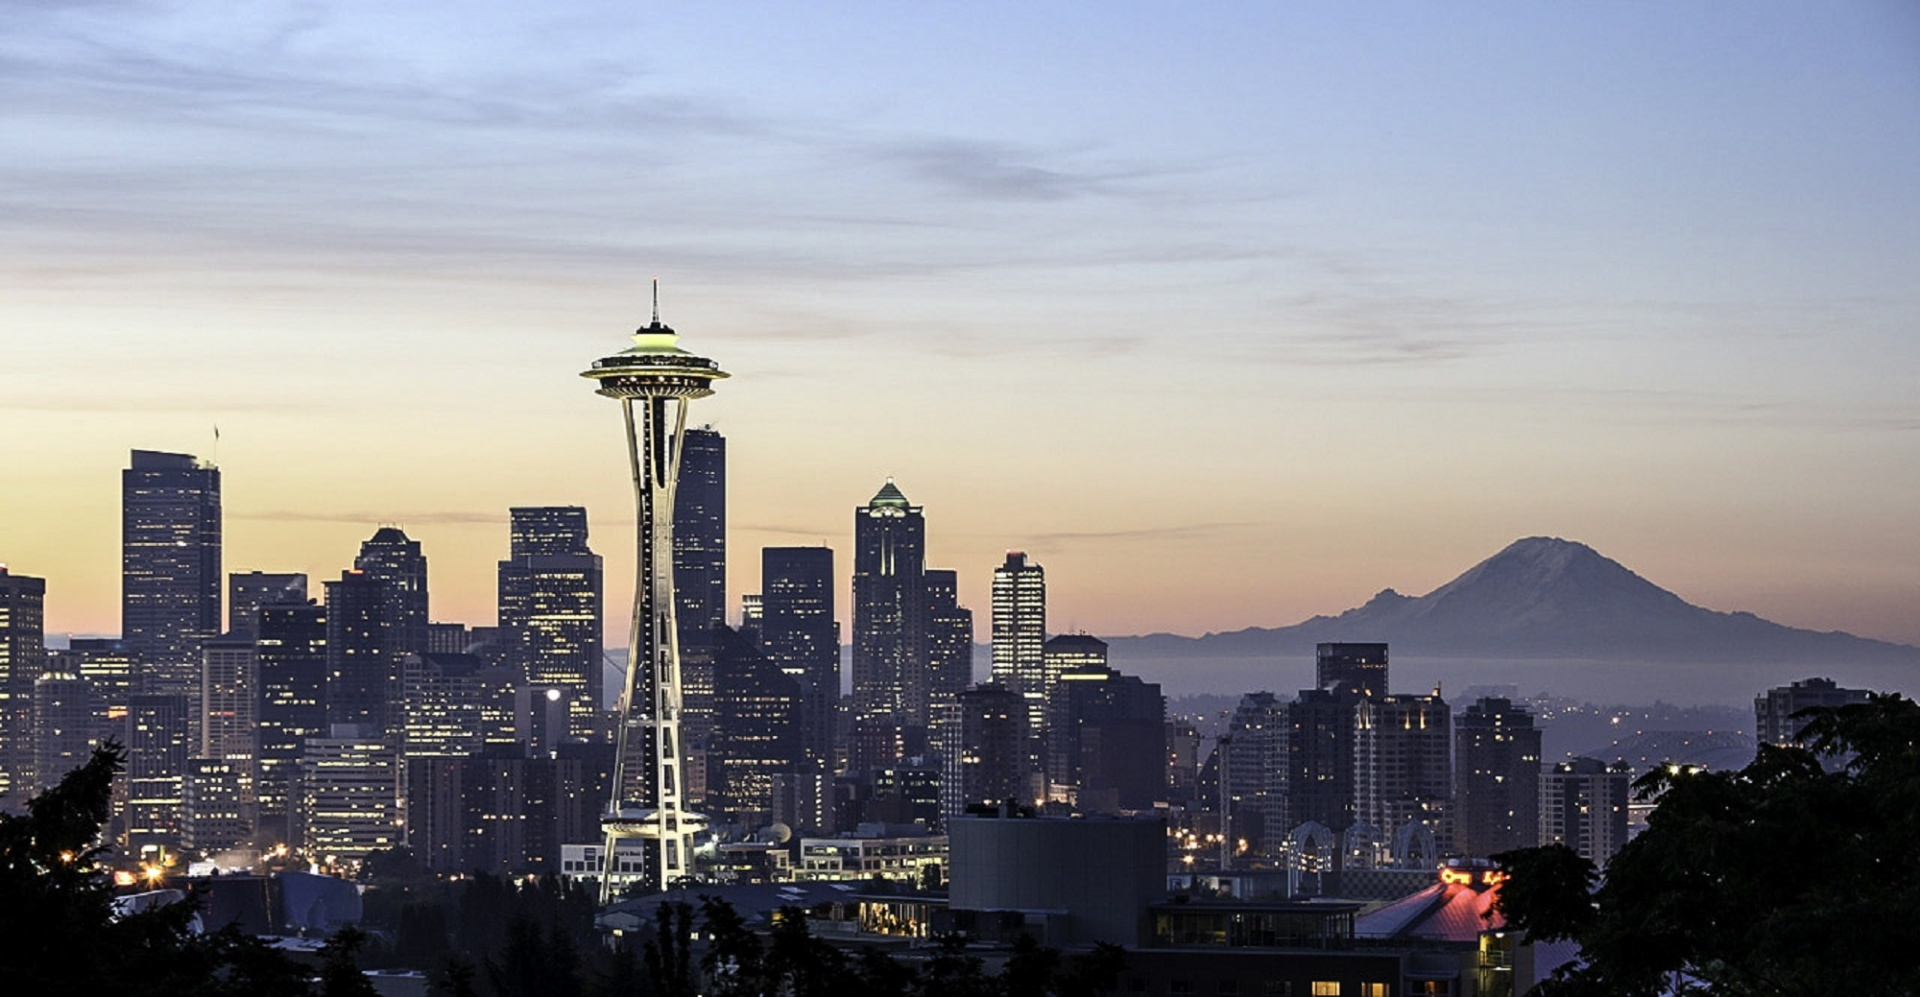
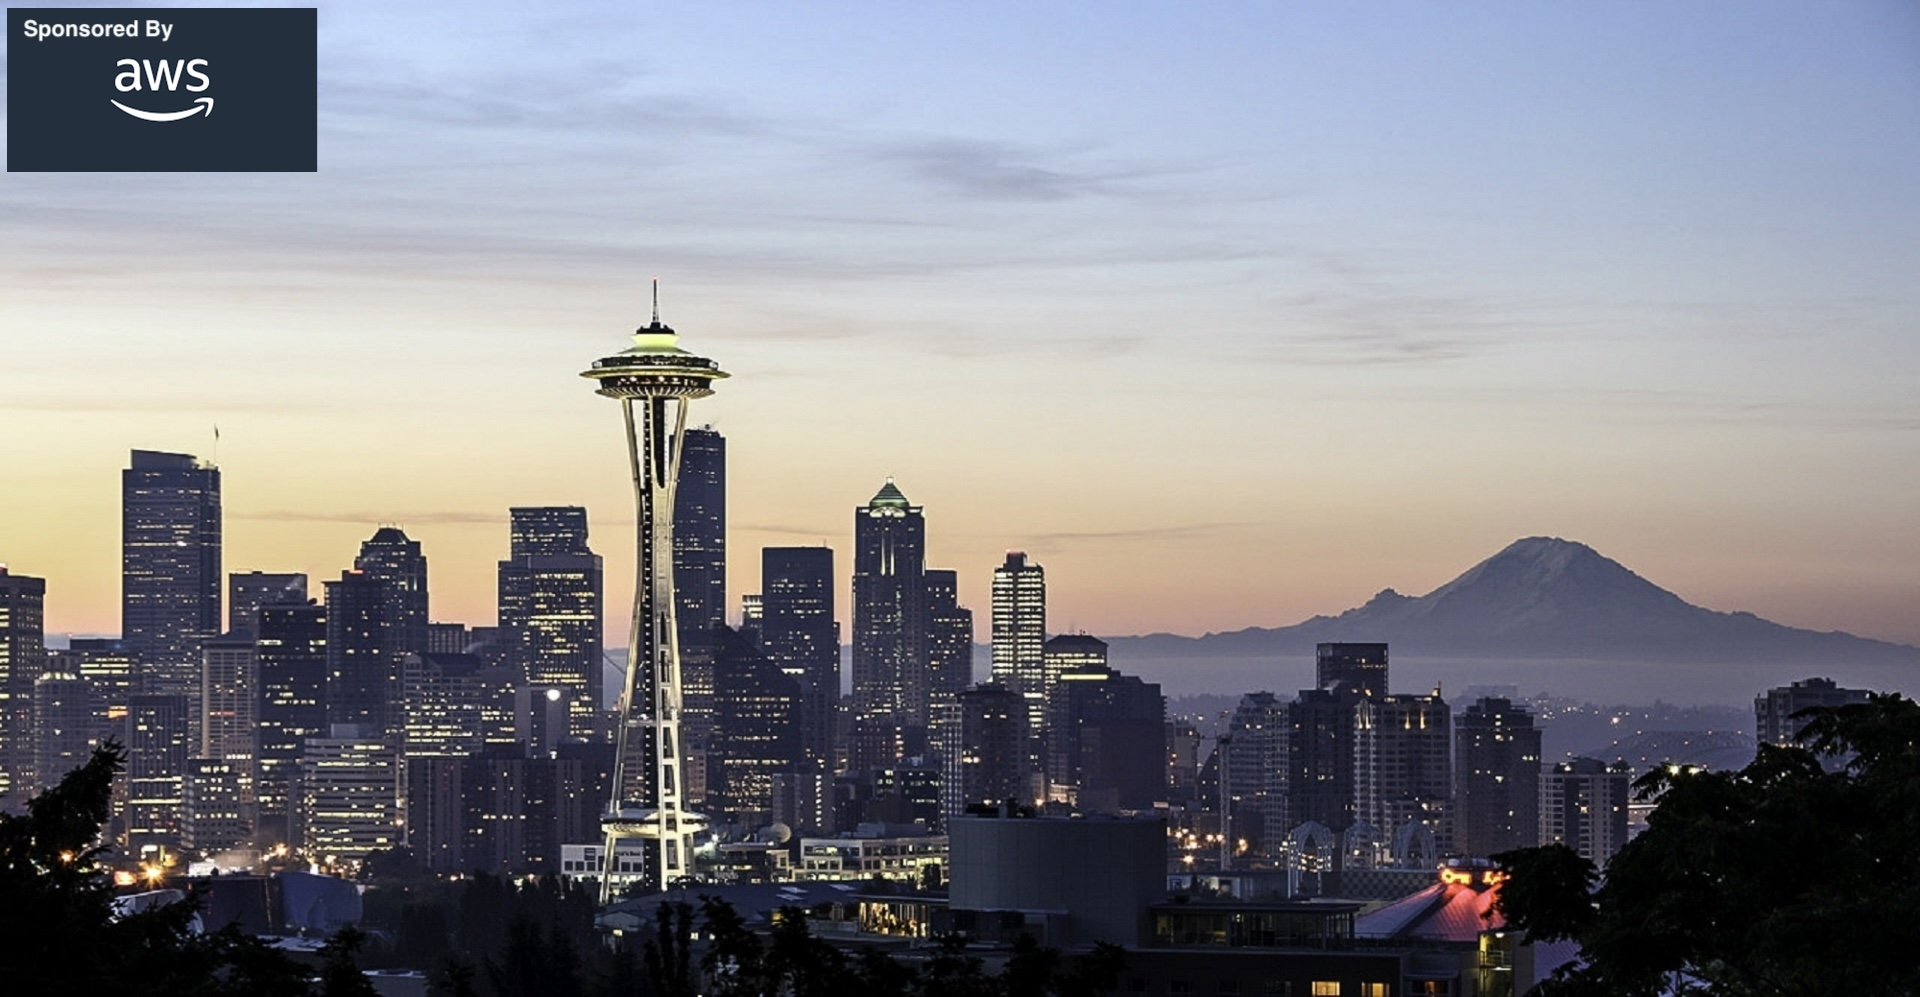
Minor edits

Changed region(s): [[0.0, 0.0, 0.1875, 0.1866]]

diff --git a/cvpr2024.html b/cvpr2024.html
@@ -147,9 +147,6 @@
                 color: white;
             }
         </style>
-	<div>
-	  <img src="./img/aws-logo.jpeg" style="width:40%"/>
-	</div>
         <div>
             <img src="./img/seattle-cityscape.jpeg" style="width:100%; min-height:200px;"/>
             <font size="6"><strong>
